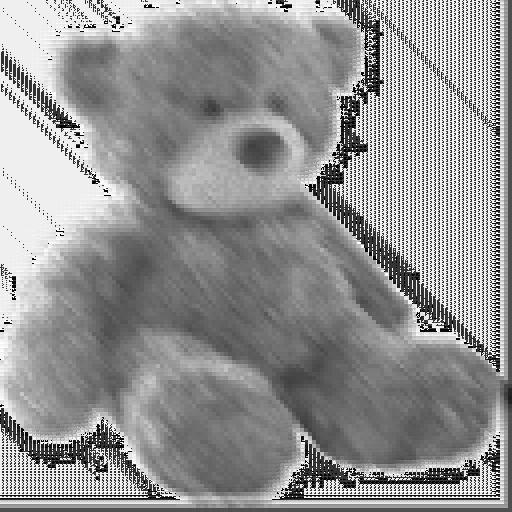
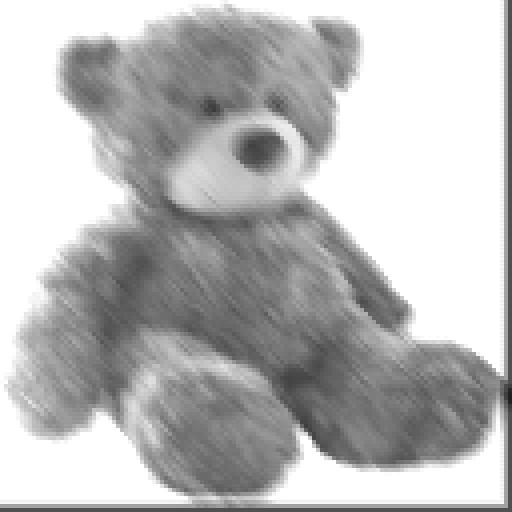
Reduce compression time by only optimize s and g for best domains

diff --git a/imagetools/imagetransformation.go b/imagetools/imagetransformation.go
@@ -190,7 +190,7 @@ func ScaleImage(img *image.Gray, scalingFactor float64) *image.Gray {
 //GrayTransformImage applies contrast and brightness transformation to image
 func GrayTransformImage(img *image.Gray, s float64, g float64) *image.Gray {
 	for i := range img.Pix {
-		grayValue := int((s*1.5)*float64(img.Pix[i]) + (g * 20))
+		grayValue := int((s*1.0)*float64(img.Pix[i]) + (g * 20))
 		if grayValue < 0 {
 			img.Pix[i] = 0
 		} else if grayValue > 255 {
@@ -220,17 +220,16 @@ func ScaleImage2(img *image.Gray, scalingFactor float64) *image.Gray {
 
 //CalcSquarredEuclideanDistance calculates the euclidean distance between a range and a domain block
 // it returns the euclidean distance, and the parameters s and g
-func CalcSquarredEuclideanDistance(rangeBlock *image.Gray, domainBlock *image.Gray) (float64, float64, float64) {
-	s, g := calcContrastAndBrightness(rangeBlock, domainBlock)
+func CalcSquarredEuclideanDistance(rangeBlock *image.Gray, domainBlock *image.Gray) float64 {
 	var errorValue = 0.0
 	for i := range rangeBlock.Pix {
-		errorValue += math.Pow((s*float64(domainBlock.Pix[i])+g)-float64(rangeBlock.Pix[i]), 2.0)
+		errorValue += math.Pow((float64(domainBlock.Pix[i]))-float64(rangeBlock.Pix[i]), 2.0)
 	}
-	return errorValue, s, g
+	return errorValue
 }
 
-//calcContrast using this function: http://einstein.informatik.uni-oldenburg.de/rechnernetze/fraktal.htm
-func calcContrastAndBrightness(rangeBlock *image.Gray, domainBlock *image.Gray) (float64, float64) {
+//CalcContrastAndBrightness using this function: http://einstein.informatik.uni-oldenburg.de/rechnernetze/fraktal.htm
+func CalcContrastAndBrightness(rangeBlock *image.Gray, domainBlock *image.Gray) (float64, float64) {
 	//calculating s - contrast
 	var n = float64(len(rangeBlock.Pix))
 	var numeratorS = 0.0

diff --git a/imagetools/compress.go b/imagetools/compress.go
@@ -18,19 +18,25 @@ type EncodingParams struct {
 func FindBestMatchingDomains(ranges [][]*image.Gray, domains [][]*image.Gray) [][]EncodingParams {
 	var encodings = make([][]EncodingParams, len(ranges))
 	for i := range ranges {
+		fmt.Printf("%d from %d\n", i+1, len(ranges))
 		encodings[i] = make([]EncodingParams, len(ranges[i]))
 
 		for j := range ranges[i] {
-			fmt.Printf("%d/%d von %d/%d\n", i+1, j+1, len(ranges), len(ranges[0]))
 			var e = math.MaxFloat64
 			for a := range domains {
 				for b := range domains[a] {
 					var eTemp = math.MaxFloat64
-					eTemp, s, g := CalcSquarredEuclideanDistance(ranges[i][j], domains[a][b])
-					if eTemp < e {
+					eTemp = CalcSquarredEuclideanDistance(ranges[i][j], domains[a][b])
+					if eTemp == 0 {
+						encodings[i][j].S = 1
+						encodings[i][j].G = 0
+						encodings[i][j].Dx = a
+						encodings[i][j].Dy = b
+						break
+					} else if eTemp < e {
 						e = eTemp
-						encodings[i][j].S = s
-						encodings[i][j].G = g
+						encodings[i][j].S = 1
+						encodings[i][j].G = 0
 						encodings[i][j].Dx = a
 						encodings[i][j].Dy = b
 					}
@@ -38,5 +44,15 @@ func FindBestMatchingDomains(ranges [][]*image.Gray, domains [][]*image.Gray) []
 			}
 		}
 	}
+	fmt.Println("Optimize s and g for all found domains...")
+	//now iterate over all encodings and optimize s and g for it
+	for i := range ranges {
+		for j := range ranges[i] {
+			s, g := CalcContrastAndBrightness(ranges[i][j], domains[encodings[i][j].Dx][encodings[i][j].Dy])
+			encodings[i][j].S = s
+			encodings[i][j].G = g
+		}
+	}
+
 	return encodings
 }

diff --git a/main.go b/main.go
@@ -40,7 +40,7 @@ func main() {
 	encoding := imagetools.FindBestMatchingDomains(ranges, domains)
 
 	fmt.Println("Decompress Image...")
-	encodedImage := imagetools.Decompress(encoding, 1)
+	encodedImage := imagetools.Decompress(encoding, 20)
 
 	//imagetools.SaveImageToFile(grayImg, filename)
 	imagetools.SaveImageToFile(encodedImage, filename)
